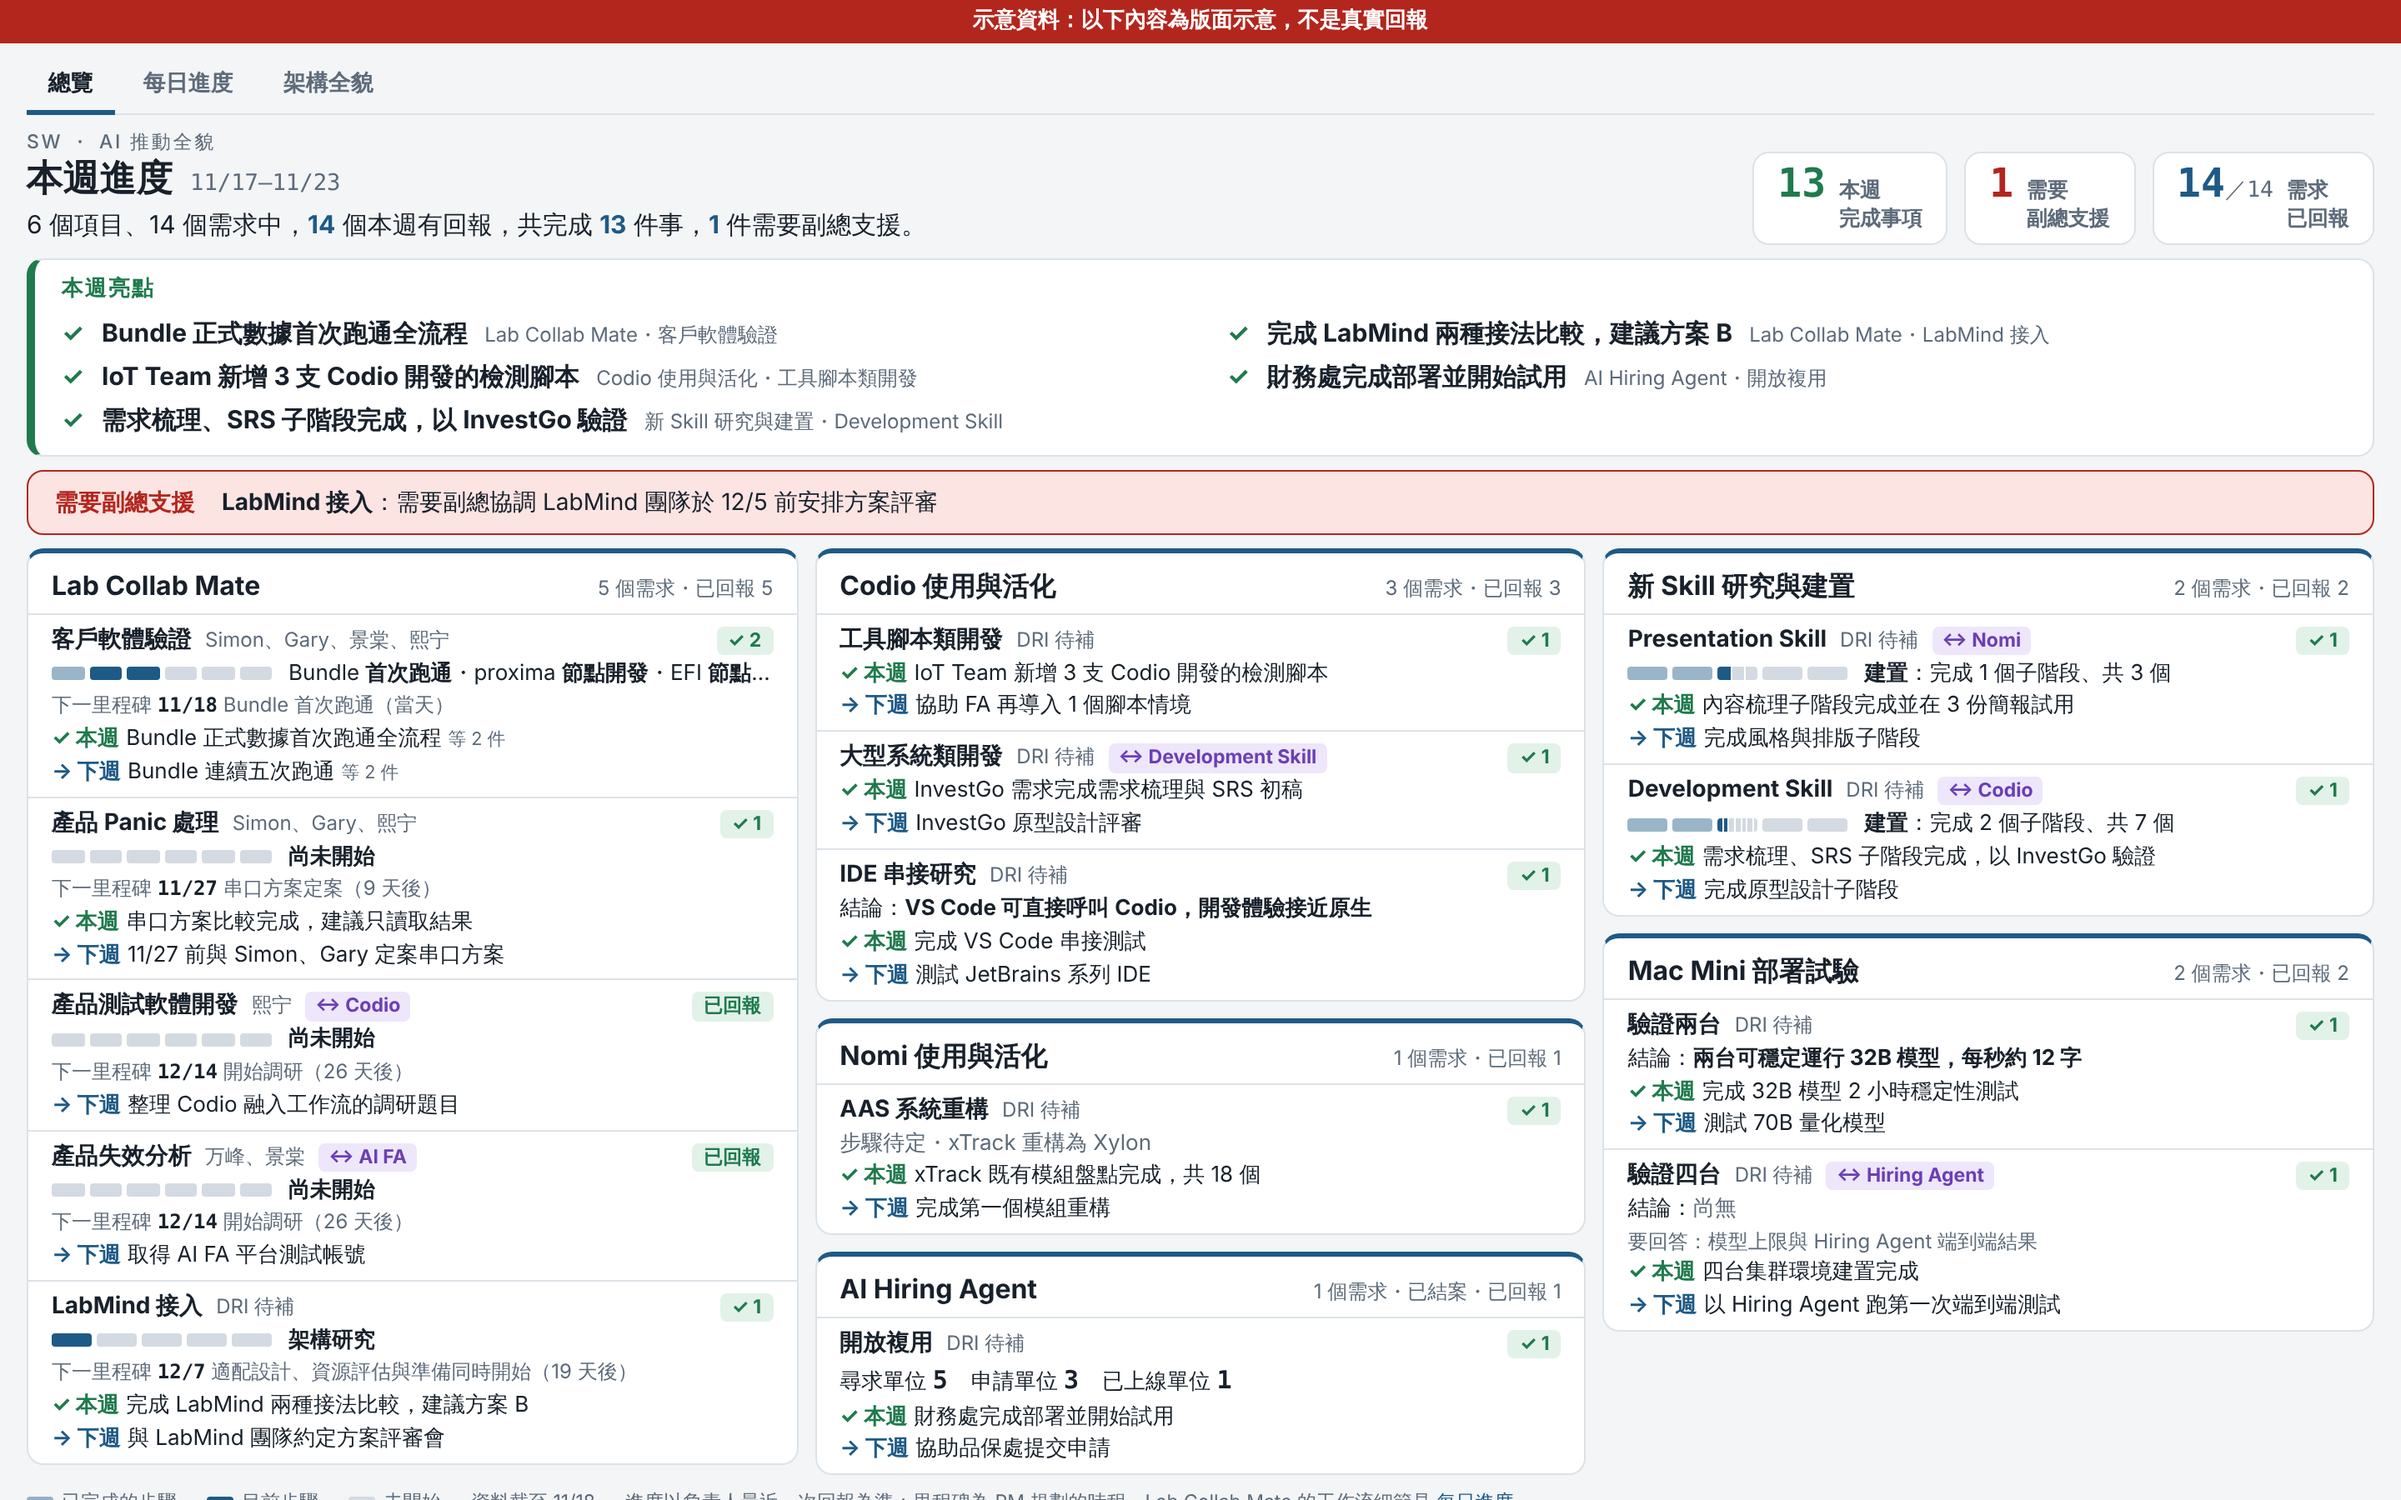
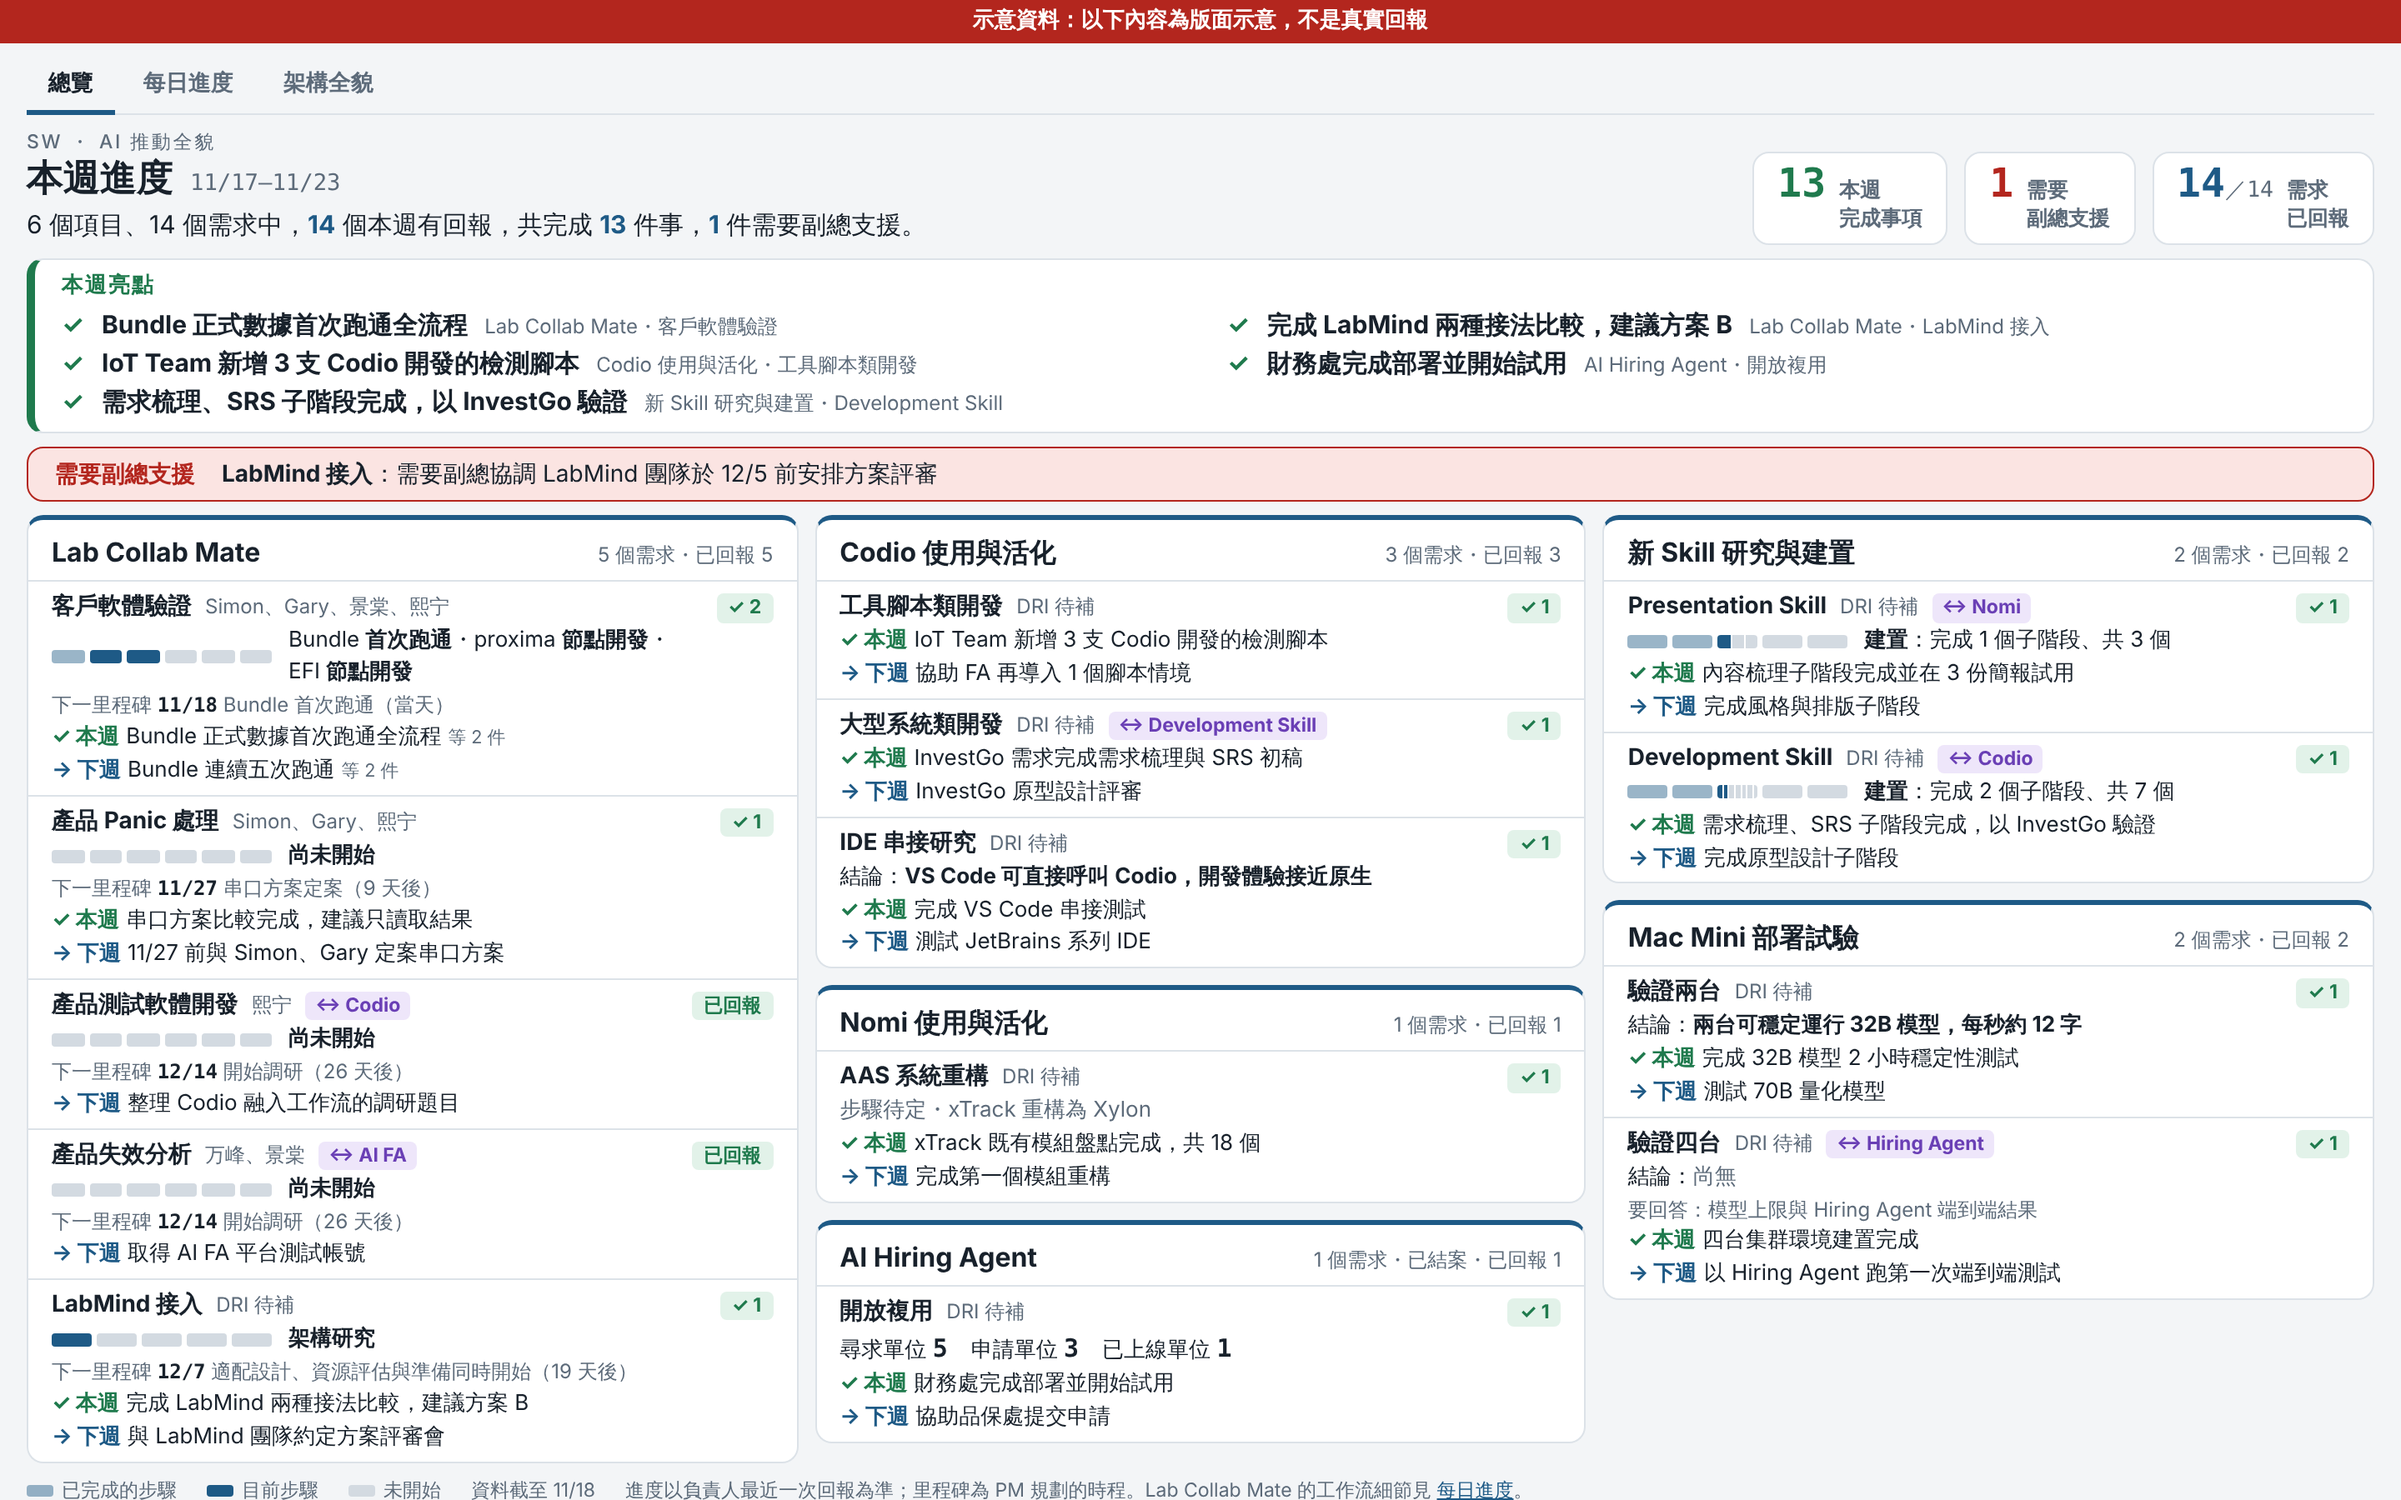
[2026-11-17_overview-redesign] 總覽頁細修：子項狀態不截斷、修 class 撞名、矮螢幕留白；更新 INDEX
Claude-Session: https://claude.ai/code/session_01Cd6Gft6mTX8zcMZinAmXya

diff --git a/public/index.html b/public/index.html
@@ -90,6 +90,9 @@ h1 .mono{font-family:var(--f-mono);font-size:.62em;color:var(--muted);font-weigh
 .chip.ok{color:var(--ok);background:var(--ok-soft)}
 .line{font-size:13px;line-height:1.45;min-width:0;white-space:nowrap;overflow:hidden;text-overflow:ellipsis}
 .line b{color:var(--fg)}
+.line.multi{white-space:normal}
+.pgl > .line{flex:1 1 0}
+.nw{white-space:nowrap}
 .ms{font-size:12px;color:var(--muted)}
 .ms b{color:var(--fg)}
 
@@ -126,8 +129,11 @@ footer a{color:var(--accent)}
   h1{font-size:22px}
   .stat{padding:6px 14px}
   .stat b{font-size:24px}
-  .hl{padding:8px 16px 10px}
-  .hl li{font-size:15px}
+  .hl{padding:6px 16px 8px}
+  .hl h2{margin-bottom:3px}
+  .hl li{font-size:15px;line-height:1.4}
+  .hl ul{gap:2px 28px}
+  .help{padding:5px 16px}
   .card > header{padding:7px 14px 5px}
   .req{padding:4px 14px 5px;gap:1px}
   .board,.col{gap:10px}
@@ -285,12 +291,12 @@ function progressHTML(r){
     const started = now != null && [...nowSet(now)].some(i => i >= 0);
     const when = src && !r.rep && now != null ? `<span class="dim">（${md(src.date)}）</span>` : "";
     let text;
-    if (src && src.subs) text = src.subs.map(([n, i]) => `${esc(n)} <b>${i >= 0 ? esc(r.steps[i]) : "未開始"}</b>`).join("・") + when;
+    if (src && src.subs) text = src.subs.map(([n, i]) => `<span class="nw">${esc(n)} <b>${i >= 0 ? esc(r.steps[i]) : "未開始"}</b></span>`).join("・") + when;
     else if (now == null) text = `<span class="dim">${r.sub ? `建置含 ${r.sub.items.length} 個子階段` : "尚無回報"}</span>`;
     else if (!started) text = `<b>尚未開始</b>`;
     else if (r.sub && nowSet(now).has(r.sub.at)) text = `<b>${esc(r.steps[r.sub.at])}</b>：完成 ${src.subDone || 0} 個子階段、共 ${r.sub.items.length} 個${when}`;
     else text = `<b>${esc(stepName(r.steps, now))}</b>${when}`;
-    return `<div class="pgl">${trackHTML(r, now ?? -1, src && src.subDone)}<div class="line">${text}</div></div>` + msHTML(r.ms);
+    return `<div class="pgl">${trackHTML(r, now ?? -1, src && src.subDone)}<div class="line${src && src.subs ? " multi" : ""}">${text}</div></div>` + msHTML(r.ms);
   }
   if (r.type === "research") {
     const c = r.rep && r.rep.conclusion;

diff --git a/work/2026-11-17_overview-redesign/outputs/src/check_overview_modes.js b/work/2026-11-17_overview-redesign/outputs/src/check_overview_modes.js
@@ -1,0 +1,26 @@
+// 總覽頁自我檢查：深色模式截圖、手機截圖（示意資料，用來看資料齊全時的版面），以及被截斷的文字清單。
+// 用法：node check_overview_modes.js <repo 根目錄> <輸出資料夾>
+const { chromium } = require('playwright');
+const fs = require('fs');
+const path = require('path');
+const [root, out] = process.argv.slice(2);
+const mockSrc = fs.readFileSync(path.join(__dirname, 'mock_overview.js'), 'utf8');
+const SAMPLE = eval('(' + mockSrc.match(/const SAMPLE = (\{[\s\S]*?\n\});/)[1] + ')');
+const src = fs.readFileSync(path.resolve(root, 'public', 'index.html'), 'utf8');
+const html = src.replace('/* ===== 計算與呈現 ===== */',
+  `const __S = ${JSON.stringify(SAMPLE)};\nPROJECTS.forEach(p => p.reqs.forEach(r => { if (__S[r.name]) r.rep = __S[r.name]; }));\n/* ===== 計算與呈現 ===== */`);
+
+(async () => {
+  const b = await chromium.launch();
+  const dark = await b.newPage({ viewport: { width: 1440, height: 900 }, colorScheme: 'dark' });
+  await dark.setContent(html); await dark.waitForTimeout(300);
+  await dark.screenshot({ path: path.join(out, 'overview-mock-dark-1440.png') });
+  const cut = await dark.evaluate(() => [...document.querySelectorAll('.line,.wk,.hl li,.dri')]
+    .filter(e => e.scrollWidth > e.clientWidth + 1).map(e => e.textContent.trim().slice(0, 40)));
+  console.log('1440 被截斷的文字：', cut.length ? '\n  ' + cut.join('\n  ') : '無');
+  const m = await b.newPage({ viewport: { width: 390, height: 844 }, deviceScaleFactor: 2 });
+  await m.setContent(html); await m.waitForTimeout(300);
+  console.log('手機 橫向溢出', await m.evaluate(() => document.documentElement.scrollWidth - innerWidth), 'px');
+  await m.screenshot({ path: path.join(out, 'overview-mock-mobile.png'), fullPage: true });
+  await b.close();
+})();

diff --git a/work/INDEX.md b/work/INDEX.md
@@ -2,7 +2,7 @@
 
 | 任務 | 狀態 | 最後更新 | 主要交付 |
 |---|---|---|---|
-| [總覽頁前端重構：讓副總一眼看到本週推進](2026-11-17_overview-redesign/STATUS.md) | 進行中：版面方向已定案，等 8 案本週資料 | 2026-11-17 | 資料範本 `outputs/data-template.md`；新版 `public/index.html`（未開始） |
+| [總覽頁前端重構：讓副總一眼看到本週推進](2026-11-17_overview-redesign/STATUS.md) | 進行中：總覽頁（本週亮點＋6 張項目卡）細修中、日報頁改版完成，皆在工作分支未上線；訊息範本已定案，等負責人第一次回覆 | 2026-11-18 | 新版 `public/index.html`、`public/daily.html`（工作分支）；訊息範本 `outputs/data-template.md` |
 | [SW AI 案例總覽主頁 與 日報頁桌機版密度改善](2026-11-17_sw-ai-overview-and-daily-density/STATUS.md) | 已上線（main `27f140d`）；8 案的 DRI／里程碑待補 | 2026-11-17 | `public/index.html`（總覽）、`public/daily.html`（原日報頁） |
 | [USB-Agent 架構對齊與第二階段規劃](2026-11-09_usb-agent-architecture-alignment/STATUS.md) | 進行中：第二階段方案 A／B 待和 LabMind 團隊確認 | 2026-11-17 | [架構全貌頁（Artifact）](https://claude.ai/artifact/Wk9NHkqSibfzZLJsXvhyRj)，原始檔在 `outputs/lcm-architecture.html` |
 | [日報頁改版：模塊卡、甘特圖、架構全貌分頁](2026-11-11_dashboard-schedule-and-arch-tab/STATUS.md) | 已上線（含 11/11 日報）；熙宁時間重疊、LabMind 資源評估負責人待決定 | 2026-11-17 | `public/daily.html` 模塊卡＋甘特圖、`public/arch.html` |
